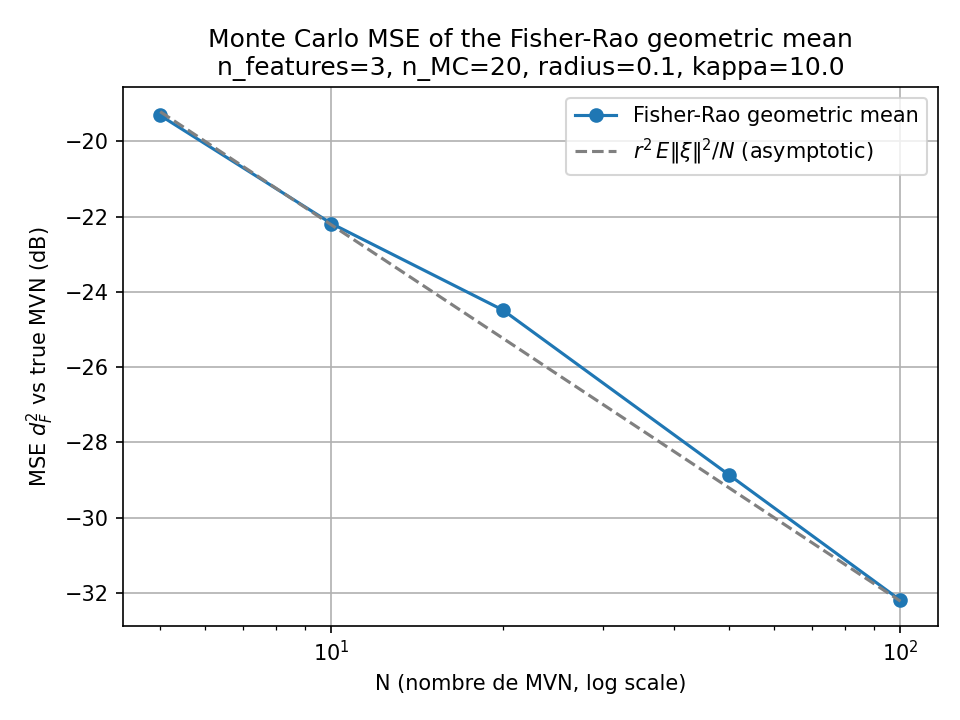
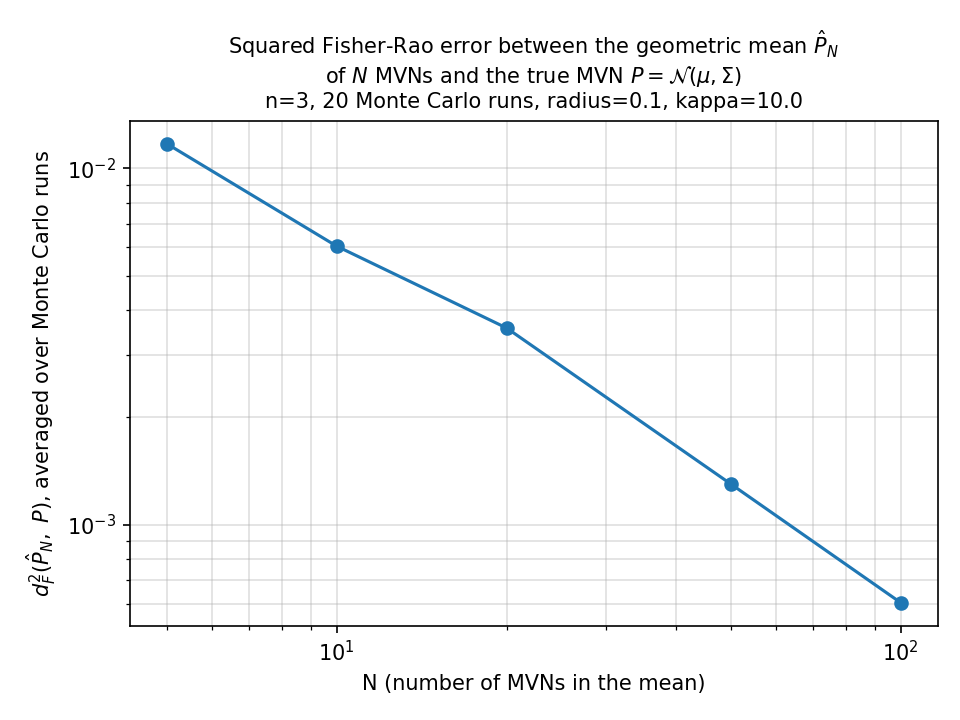
Clarify the geometric_mean_mvn MSE figure
Plot only the Monte Carlo mean of d_F^2(P_hat_N, P) in log-log scale,
with a title and axis label stating that it is the squared Fisher-Rao
error between the geometric mean and the true MVN. Drop the asymptotic
reference curve from the figure (still saved in the CSV). Plotting is
moved to plot_mse_curve; the PNG is regenerated from the stored CSV.

diff --git a/scripts/run_geometric_mean_mvn.py b/scripts/run_geometric_mean_mvn.py
@@ -106,6 +106,46 @@ def mse_curve_geometric_mvn(
     return Ns_array, mse, runtime
 
 
+def plot_mse_curve(
+    Ns_array: np.ndarray,
+    mse: np.ndarray,
+    n_features: int,
+    n_MC: int,
+    radius: float,
+    condition_number: float,
+    out_path: str,
+) -> None:
+    """
+    Plots the Monte Carlo mean of d_F^2(P_hat_N, P) against N in log-log scale and saves it.
+
+    Parameters
+    ----------
+    Ns_array : ndarray
+        Values of N.
+    mse : ndarray
+        Mean over the Monte Carlo runs of d_F^2(P_hat_N, P), for each N.
+    n_features, n_MC, radius, condition_number
+        Experiment parameters, shown in the title.
+    out_path : str
+        Path of the saved PNG.
+    """
+    plt.figure()
+    plt.loglog(Ns_array, mse, marker="o")
+    plt.xlabel("N (number of MVNs in the mean)")
+    plt.ylabel(r"$d_F^2(\hat P_N,\ P)$, averaged over Monte Carlo runs")
+    plt.title(
+        r"Squared Fisher-Rao error between the geometric mean $\hat P_N$"
+        "\n"
+        r"of $N$ MVNs and the true MVN $P = \mathcal{N}(\mu, \Sigma)$"
+        "\n"
+        f"n={n_features}, {n_MC} Monte Carlo runs, radius={radius}, kappa={condition_number}",
+        fontsize=10,
+    )
+    plt.grid(True, which="both", alpha=0.4)
+    plt.tight_layout()
+    plt.savefig(out_path, dpi=150)
+
+
 def main() -> None:
     """
     Plots the Monte Carlo MSE of the Fisher-Rao geometric mean of MVNs against N.
@@ -142,24 +182,9 @@ def main() -> None:
     np.savetxt("output/geometric_mean_mvn_mse.csv", np.column_stack([Ns_array, mse, reference]),
                delimiter=",", header="N,mse_dF2,reference", comments="")
 
-    # ----- tracé matplotlib : N vs MSE (en dB) -----
-    plt.figure()
-    plt.plot(Ns_array, 10 * np.log10(mse + 1e-300), marker="o", label="Fisher-Rao geometric mean")
-    plt.plot(Ns_array, 10 * np.log10(reference), ls="--", c="gray",
-             label=r"$r^2\,E\|\xi\|^2/N$ (asymptotic)")
-    plt.xscale("log")
-    plt.xlabel("N (nombre de MVN, log scale)")
-    plt.ylabel(r"MSE $d_F^2$ vs true MVN (dB)")
-    plt.title(
-        f"Monte Carlo MSE of the Fisher-Rao geometric mean\n"
-        f"n_features={n_features}, n_MC={n_MC}, radius={radius}, kappa={condition_number}"
-    )
-    plt.grid(True)
-    plt.legend()
-    plt.tight_layout()
-
+    # ----- tracé matplotlib : N vs MSE (log-log) -----
     out_path = "output/geometric_mean_mvn_mse.png"
-    plt.savefig(out_path, dpi=150)
+    plot_mse_curve(Ns_array, mse, n_features, n_MC, radius, condition_number, out_path)
     print(f"[run_geometric_mean_mvn] saved figure -> {out_path} and data -> output/geometric_mean_mvn_mse.csv")
 
     plt.show(block=True)
